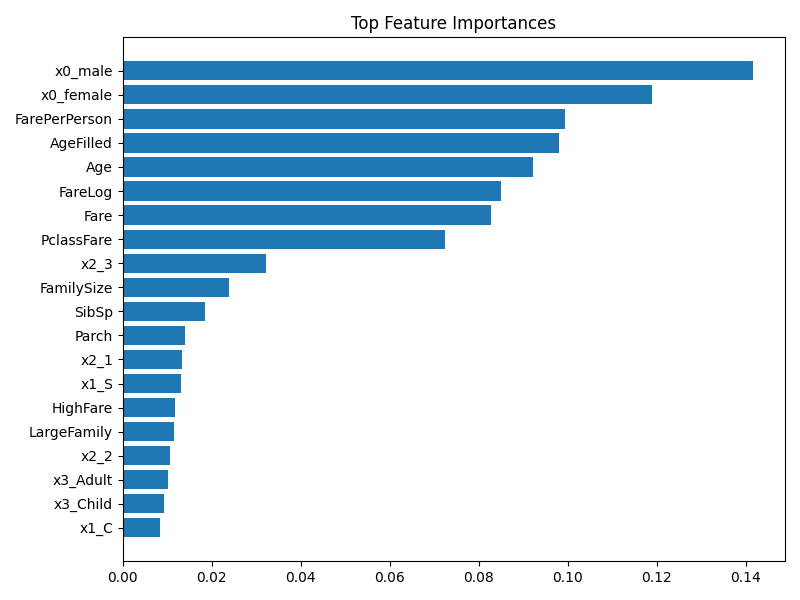
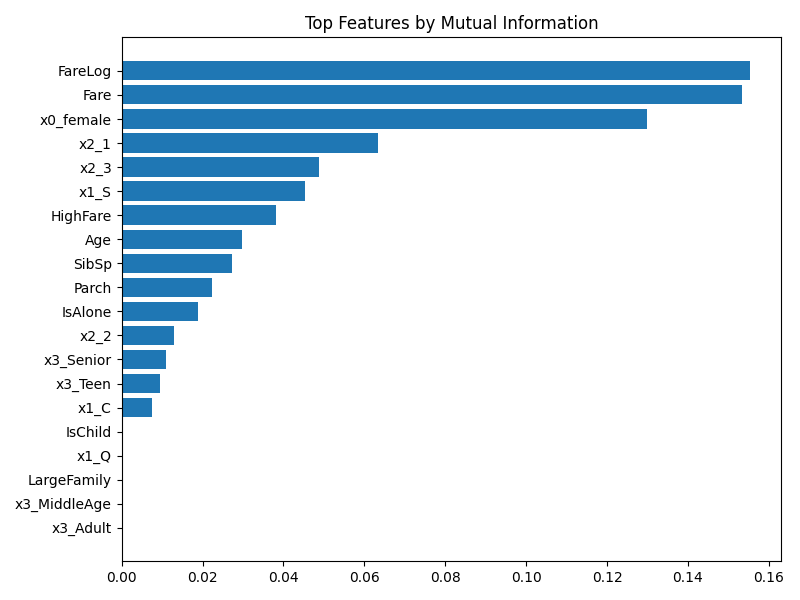
used Correlation and MI for feature selection

diff --git a/Week6/src/features/feature_selector.py b/Week6/src/features/feature_selector.py
@@ -2,22 +2,21 @@ import json
 import numpy as np
 import joblib
 import matplotlib.pyplot as plt
+import pandas as pd
 from pathlib import Path
 
-from sklearn.ensemble import RandomForestClassifier
-
+from sklearn.feature_selection import mutual_info_classif
 
 BASE_DIR = Path(__file__).resolve().parents[1]
 FEATURE_DIR = BASE_DIR / "features"
 
-
+# Load data
 X_train = np.load(FEATURE_DIR / "X_train.npy", allow_pickle=True)
 y_train = np.load(FEATURE_DIR / "y_train.npy", allow_pickle=True)
 
 preprocessor = joblib.load(FEATURE_DIR / "preprocessing_pipeline.pkl")
 
-
-# extract feature names from preprocessor
+# Extract feature names
 num_features = preprocessor.named_transformers_["num"].get_feature_names_out()
 cat_features = (
     preprocessor.named_transformers_["cat"]
@@ -27,42 +26,59 @@ cat_features = (
 
 feature_names = list(num_features) + list(cat_features)
 
+X_df = pd.DataFrame(X_train, columns=feature_names)
 
-# traing model for feature importance
-rf = RandomForestClassifier(
-    n_estimators=100,
+# 1 Correlation Threshold
+
+corr_matrix = X_df.corr().abs()
+
+upper = corr_matrix.where(
+    np.triu(np.ones(corr_matrix.shape), k=1).astype(bool)
+)
+
+CORR_THRESHOLD = 0.85
+
+to_drop = [
+    column for column in upper.columns
+    if any(upper[column] > CORR_THRESHOLD)
+]
+
+X_corr_filtered = X_df.drop(columns=to_drop)
+
+print(f"Correlation filter: dropped {len(to_drop)} features")
+
+
+# 2 Mutual Information
+
+mi_scores = mutual_info_classif(
+    X_corr_filtered.values,
+    y_train,
     random_state=42
 )
 
-rf.fit(X_train, y_train)
-
-importances = rf.feature_importances_
-
-importance_df = sorted(
-    zip(feature_names, importances),
-    key=lambda x: x[1],
-    reverse=True
-)
+mi_df = pd.DataFrame({
+    "feature": X_corr_filtered.columns,
+    "mi_score": mi_scores
+}).sort_values(by="mi_score", ascending=False)
 
 TOP_K = 20
-selected_features = [f[0] for f in importance_df[:TOP_K]]
+selected_features = mi_df.head(TOP_K)["feature"].tolist()
 
-
-
+# Save selected features
 with open(FEATURE_DIR / "feature_list.json", "w") as f:
     json.dump(selected_features, f, indent=4)
 
+# Plot MI scores
 
-names = [f[0] for f in importance_df[:TOP_K]]
-scores = [f[1] for f in importance_df[:TOP_K]]
+names = mi_df.head(TOP_K)["feature"]
+scores = mi_df.head(TOP_K)["mi_score"]
 
 plt.figure(figsize=(8, 6))
 plt.barh(names[::-1], scores[::-1])
-plt.title("Top Feature Importances")
+plt.title("Top Features by Mutual Information")
 plt.tight_layout()
 plt.savefig(FEATURE_DIR / "feature_importance.png")
 plt.close()
-
 
 print("Day 2: Feature selection completed successfully")
 print(f"Top {TOP_K} features saved to feature_list.json")
